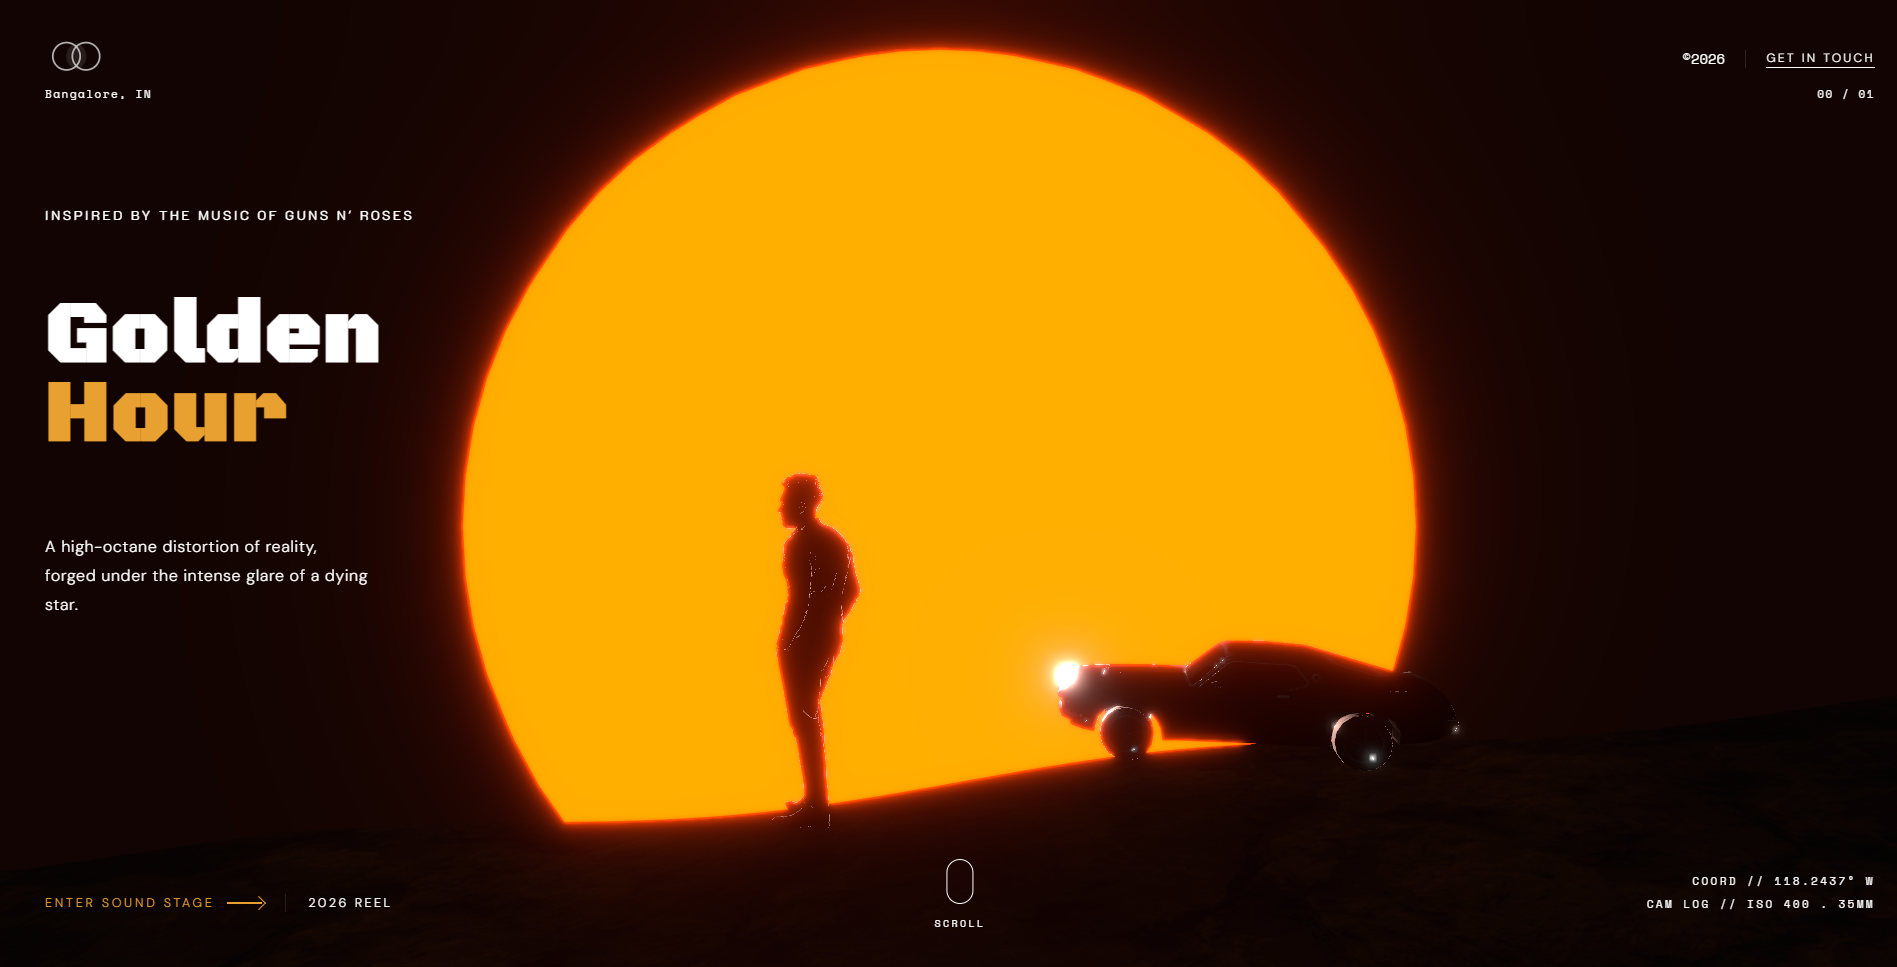
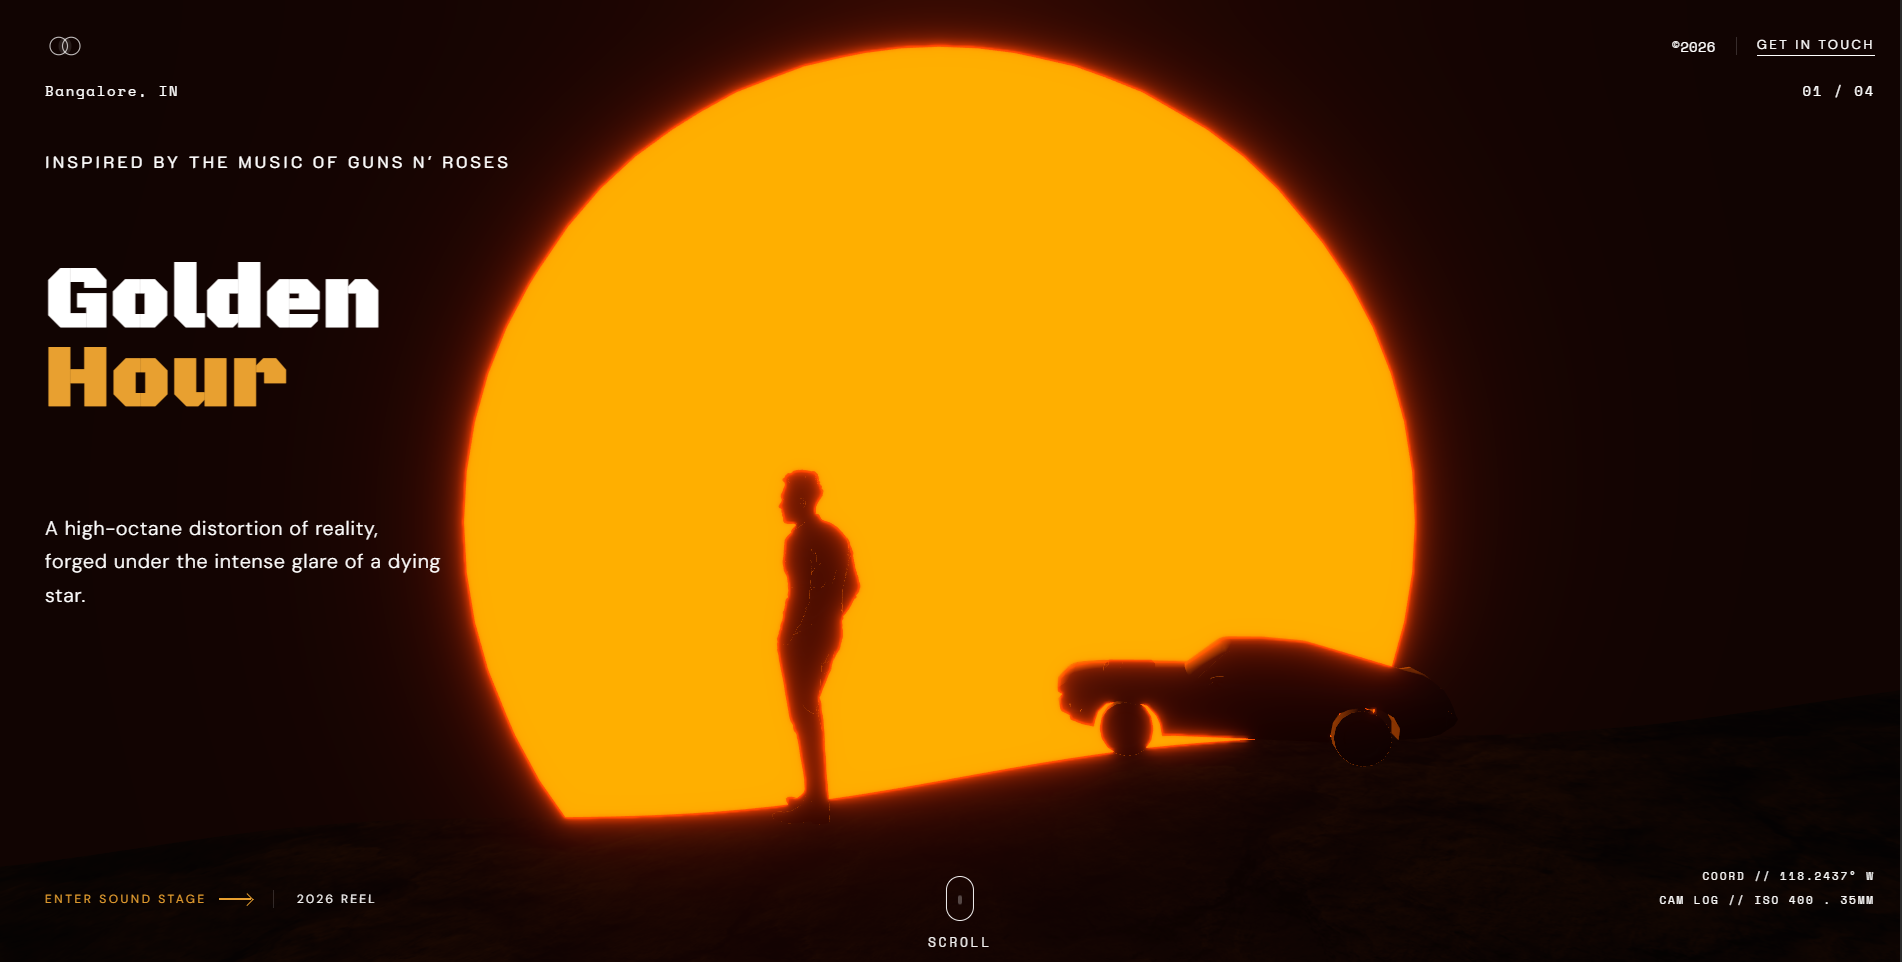
"added new projects"

diff --git a/src/data/projects.ts b/src/data/projects.ts
@@ -46,8 +46,71 @@ export const projects: Project[] = [
     ],
   },
   {
-    id: "animal-kingdom",
+    id: "luxe-interior",
     experimentNo: "EXPERIMENT_002",
+    title: "Luxe Interior",
+    tagline: "Where architectural precision becomes quiet dwelling",
+    thumbnail: "/Work/Luxe/lx2.png",
+    screenshots: [
+      "/Work/Luxe/lx1.png",
+      "/Work/Luxe/lx2.png",
+      "/Work/Luxe/lx3.png",
+      "/Work/Luxe/lx4.png",
+      "/Work/Luxe/lx5.png",
+      "/Work/Luxe/lx6.png",
+      "/Work/Luxe/lx7.png",
+    ],
+    liveUrl: "https://luxe-interior.vercel.app/",
+    status: "Live",
+    description:
+      `The Luxe Interior web application is an interactive, editorial 3D architectural portfolio
+engineered with React 19, Three.js, React Three Fiber (R3F), GSAP, and Studio Freight
+Lenis. It showcases a Scandinavian modern interior pavilion through real-time procedural
+wireframes, custom GLSL.`,
+    techStack: [
+      { name: "Three.js", icon: "🟢" },
+      { name: "GLSL", icon: "🟣" },
+    ],
+    highlights: [
+      "Three.js & Scene Architecture",
+      "Procedural wireframing technnique",
+      " Animation & Scroll Approach",
+      "Custom Shader Techniques (GLSL)",
+      "Atmospheric Day/Night Interpolation",
+    ],
+  },
+  {
+    id: "pixie-bloomlands",
+    experimentNo: "EXPERIMENT_003",
+    title: "Pixie Bloomlands",
+    tagline: "An Interactive 3D WebGL Storytelling Experience",
+    thumbnail: "/Work/pixie/PB6.png",
+    screenshots: [
+      "/Work/pixie/PB1.png",
+      "/Work/pixie/PB2.png",
+      "/Work/pixie/PB3.png",
+      "/Work/pixie/PB4.png",
+      "/Work/pixie/PB5.png",
+      "/Work/pixie/PB6.png",
+    ],
+    liveUrl: "https://pixiebloomlands.vercel.app/",
+    status: "Live",
+    description:
+      `Pixie Bloomlands is an immersive, browser-based 3D microsite built with React Three Fiber and GSAP. Designed with an enchanted dark-fantasy aesthetic, the project guides visitors through a stylized woodland environment using scroll-driven camera flight paths, custom WebGL lighting, and real-time interactive low-poly assets.`,
+    techStack: [
+      { name: "Three.js", icon: "🟢" },
+      { name: "GLSL", icon: "🟣" },
+    ],
+    highlights: [
+      "Scroll-Driven Camera Choreography",
+      "Low-Poly 3D Environment,Whimsical Mushroom Cottages",
+      "Real-Time WebGL Shaders & Lighting",
+      "Interactive 3D Butterfly Guide",
+    ],
+  },
+  {
+    id: "animal-kingdom",
+    experimentNo: "EXPERIMENT_004",
     title: "Animal Kingdom",
     tagline: "An interactive wildlife archive ",
     thumbnail: "/Work/animalKingdom/EnterScreen.png",
@@ -77,7 +140,7 @@ export const projects: Project[] = [
   },
   {
     id: "apex-interceptor",
-    experimentNo: "EXPERIMENT_003",
+    experimentNo: "EXPERIMENT_005",
     title: "Apex Interceptor",
     tagline: "A cinematic vehicle experience",
     thumbnail: "/Work/apex/Apex2.png",
@@ -108,7 +171,7 @@ export const projects: Project[] = [
   },
   {
     id: "flutter",
-    experimentNo: "EXPERIMENT_004",
+    experimentNo: "EXPERIMENT_006",
     title: "Flutter",
     tagline: "An interactive butterfly artwork",
     thumbnail: "/Work/Flutter/Flutter.png",
@@ -132,7 +195,7 @@ export const projects: Project[] = [
   },
   {
     id: "spirit-world",
-    experimentNo: "EXPERIMENT_005",
+    experimentNo: "EXPERIMENT_007",
     title: "The Art of Ghibli",
     tagline: "An immersive visual exploration of Studio Ghibli art",
     thumbnail: "/Work/spiritWorld/home.png",
@@ -163,7 +226,7 @@ export const projects: Project[] = [
   },
   {
     id: "lumi",
-    experimentNo: "EXPERIMENT_006",
+    experimentNo: "EXPERIMENT_008",
     title: "Luminescent",
     tagline: "An audio-reactive WebGL experience",
     thumbnail: "/Work/Luminescent/Luminescent.png",
@@ -186,15 +249,15 @@ export const projects: Project[] = [
   },
   {
     id: "cine-web",
-    experimentNo: "EXPERIMENT_007",
+    experimentNo: "EXPERIMENT_009",
     title: "Golden Hour",
     tagline: "A cinematic web experience",
     thumbnail: "/Work/cine/p2.png",
-    screenshots: ["/Work/cine/p1.png", "/Work/cine/p2.png"],
+    screenshots: ["/Work/cine/p1.png", "/Work/cine/p2.png", "/Work/cine/p3.png", "/Work/cine/p4.png"],
     liveUrl: "https://cinematic-web-experience.vercel.app/",
     status: "Live",
     description:
-      "A cinematic web experience inspired by the music of Guns N' Roses and the timeless aesthetic of classic anime, featuring a seamless transition from sun to moon with immersive atmospheric visuals and dynamic environmental effects",
+      "This project is an interactive, browser-based 3D cinematic narrative built to explore the boundaries of real-time web performance. Structured across four distinct visual acts, it guides users through dramatic shifts in atmospheric lighting, skybox color grading, and ambient density. The experience leverages advanced graphics techniques, combining custom particle dynamics with realistic environmental simulations. Designed with a modern frontend architecture, it bridges high-fidelity creative visual storytelling and performant web technologies. Ultimately, it serves as a technical showcase demonstrating how desktop-grade graphical depth can run smoothly inside standard web browsers",
     techStack: [
       { name: "React", icon: "⚛" },
       { name: "DnD Kit", icon: "🧲" },
@@ -202,15 +265,15 @@ export const projects: Project[] = [
       { name: "TypeScript", icon: "🔵" },
     ],
     highlights: [
-      "Animated Day–Night Cycle",
-      "GSAP-Powered Scene Transitions",
-      "Dynamic Lighting & Atmosphere",
-      "Three.js Environment Rendering",
+      "4-Act Visual Progression",
+      "Custom Shader-Based Rain",
+      "Choreographed Camera & Motion",
+      "Threejs Responsive Design",
     ],
   },
   {
     id: "cine-mad",
-    experimentNo: "EXPERIMENT_008",
+    experimentNo: "EXPERIMENT_010",
     title: "CineMad",
     tagline: "A movie recommendation website",
     thumbnail: "/Work/Cinemad/p4.png",
@@ -237,7 +300,7 @@ export const projects: Project[] = [
   },
   {
     id: "tourism",
-    experimentNo: "EXPERIMENT_009",
+    experimentNo: "EXPERIMENT_011",
     title: "Tourism Website",
     tagline: "Experience the soul of Tamil Nadu through every journey.",
     thumbnail: "/Work/Tourism/t1.png",
